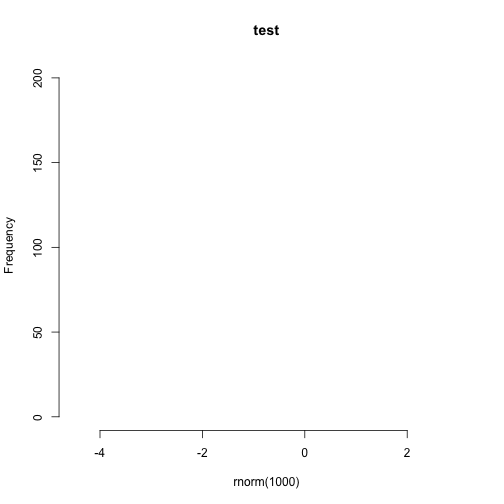
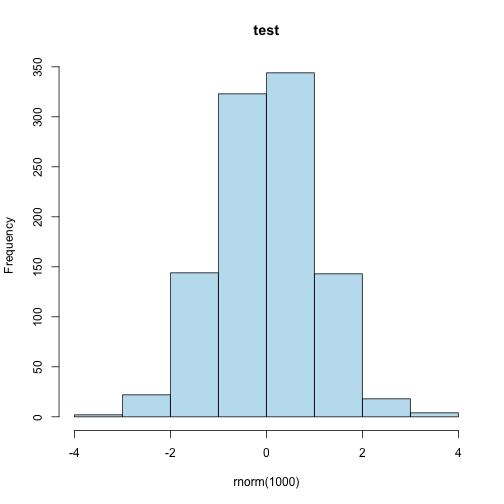
commit test

diff --git a/_posts/2016-03-27-pokus02.md b/_posts/2016-03-27-pokus02.md
@@ -33,13 +33,7 @@ You can also embed plots, for example:
  
 
 {% highlight r %}
-hist(rnorm(1000), col = "0099CD50", main = "test")
-{% endhighlight %}
-
-
-
-{% highlight text %}
-## Error in rect(x$breaks[-nB], 0, x$breaks[-1L], y, col = col, border = border, : invalid color specification "0099CD50"
+hist(rnorm(1000), col = "#0099CD50", main = "test")
 {% endhighlight %}
 
 ![plot of chunk plot02](/figures/plot02-1.png)
